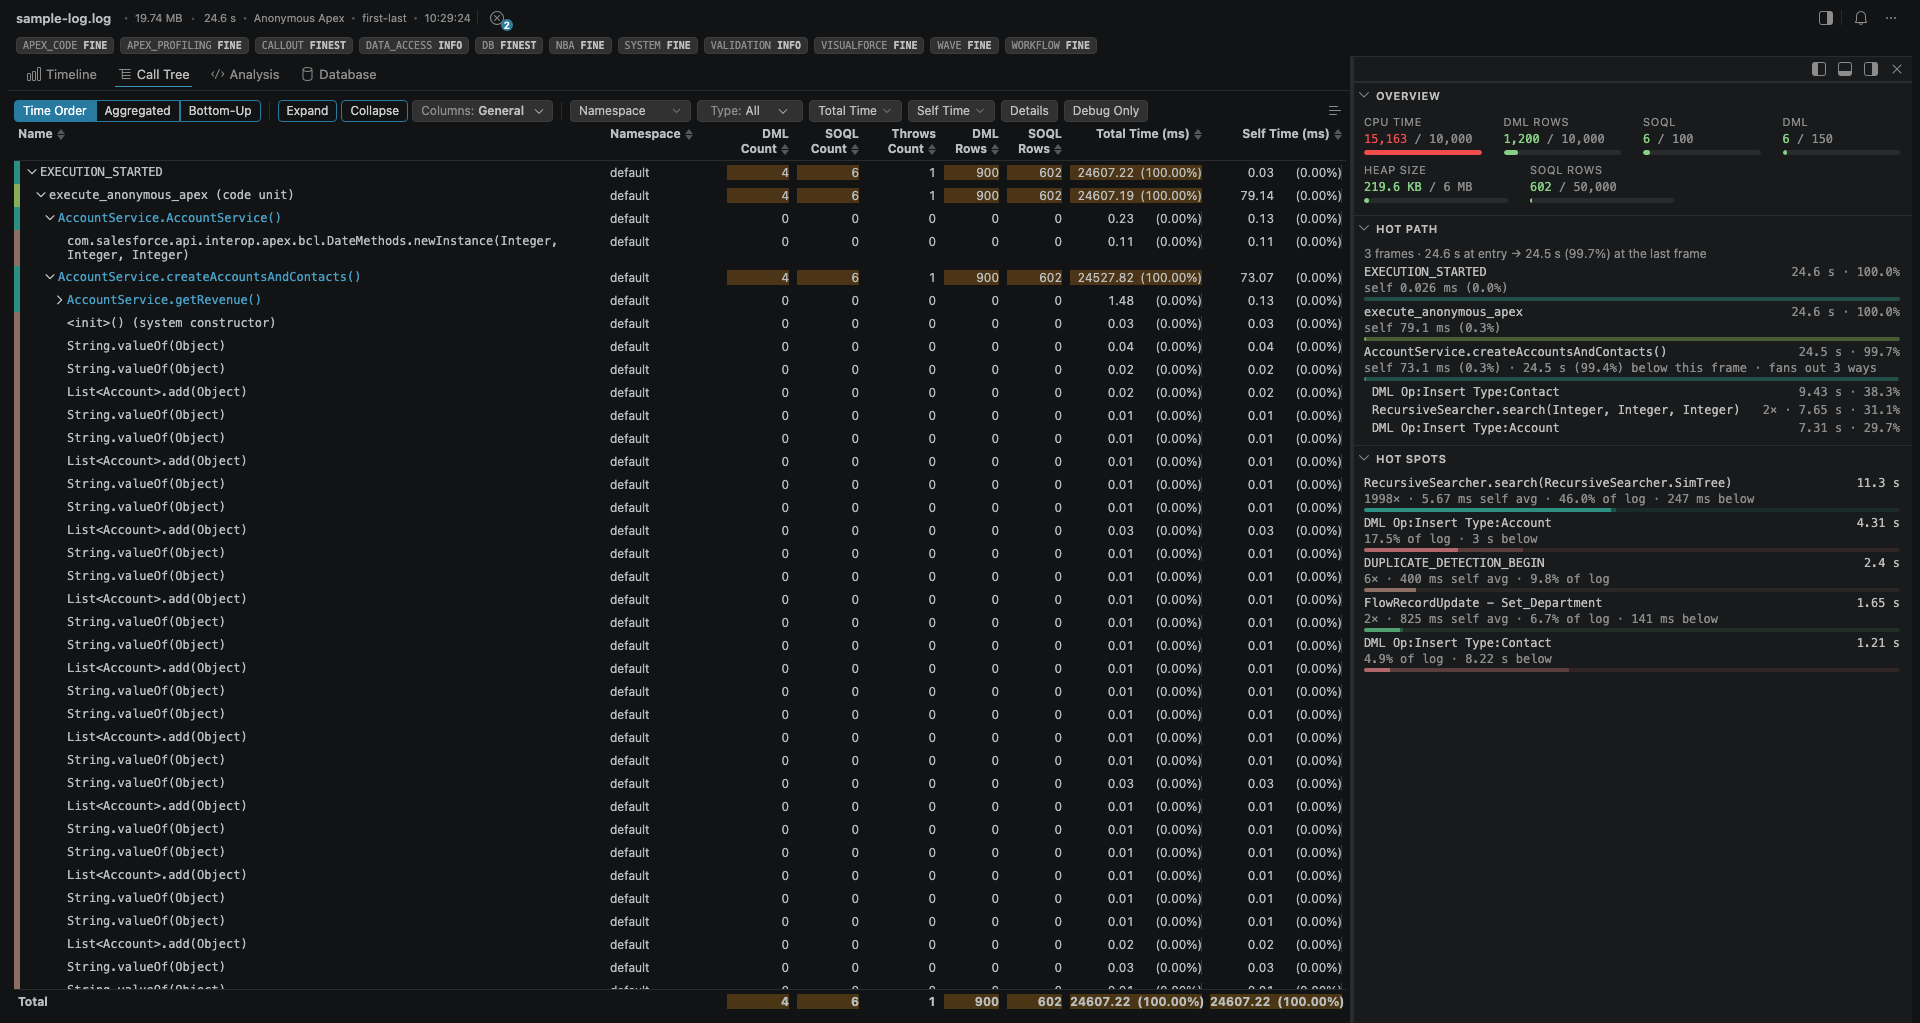
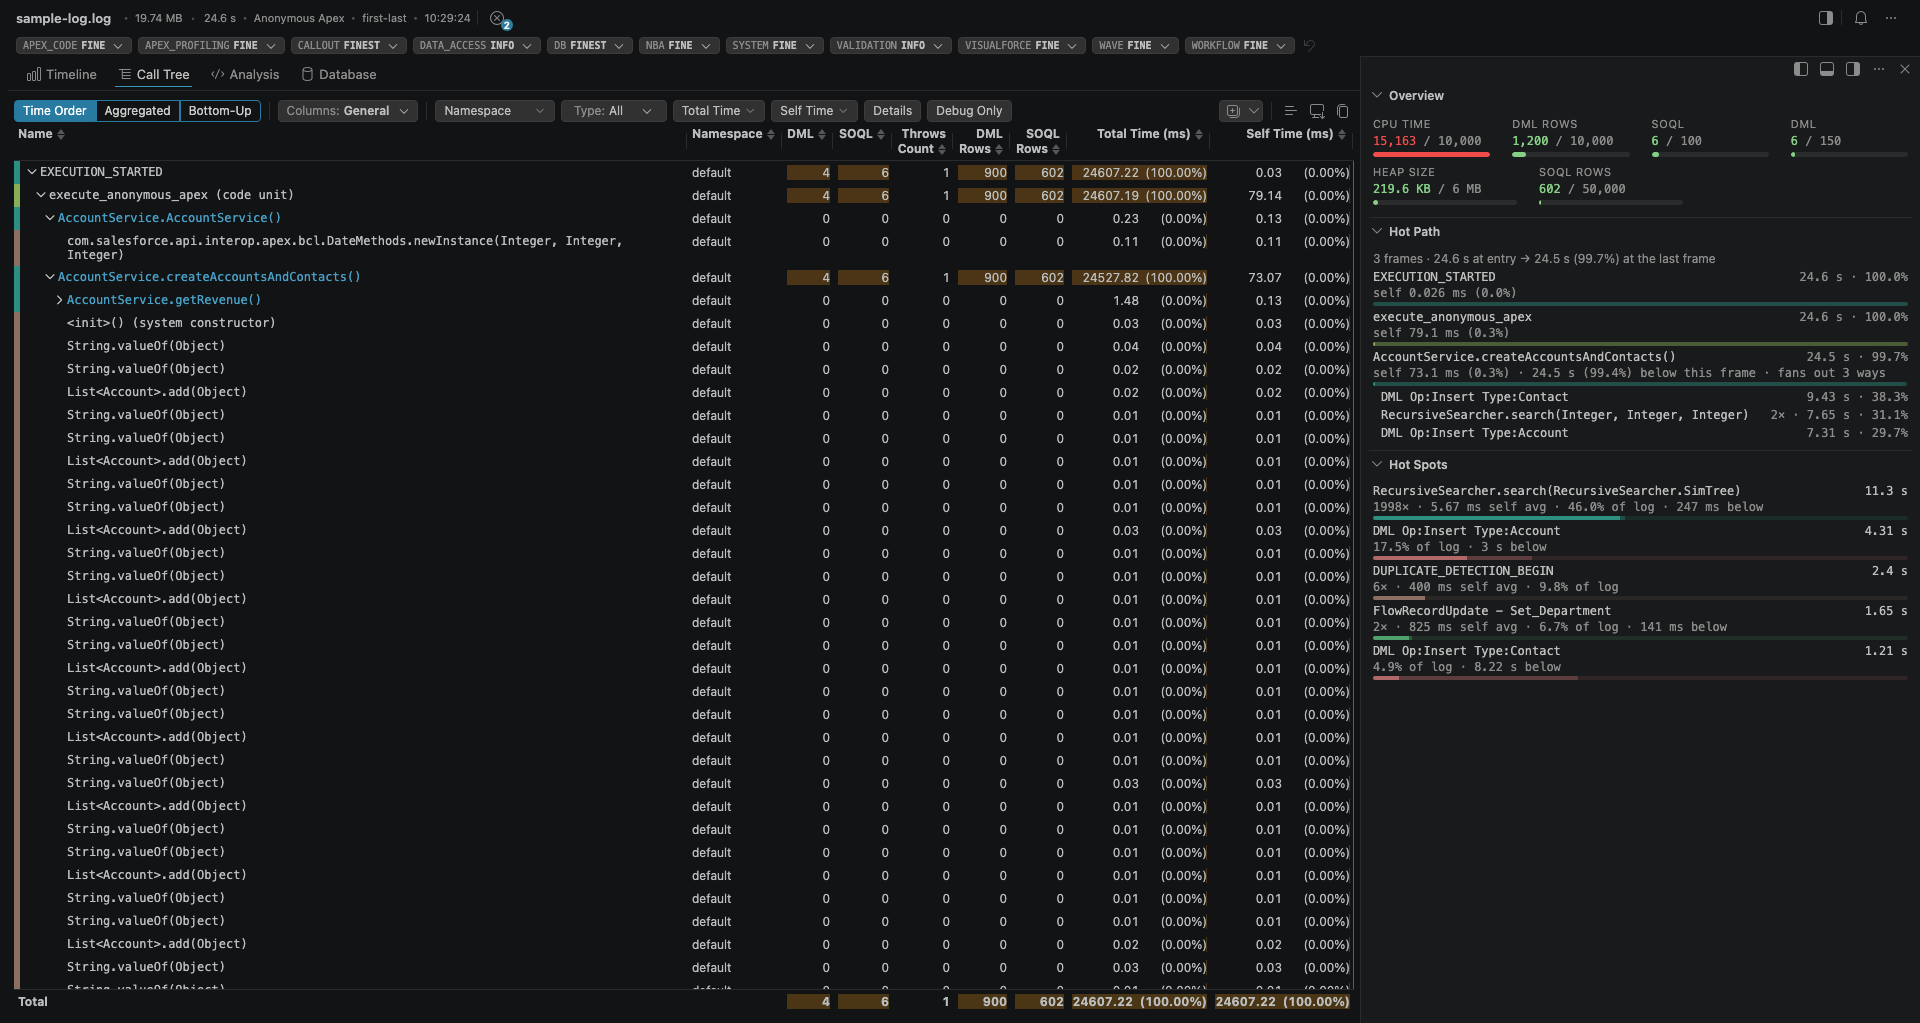
docs: re-shoot the screenshots into assets/1_24
Re-capture every log viewer shot in dark and light from this build.
Re-record the README hero gif from the docs demo, so it shows the new tables.
Copy the two VS Code editor shots forward. Their UI did not change.
Point the README, the docs and the screenshot scripts at 1_24, and remove 1_22.

diff --git a/lana-docs/src/constants.ts b/lana-docs/src/constants.ts
@@ -1,6 +1,6 @@
 /** Versioned screenshot folder. RELEASING.md bumps the version each stable release. */
 export const ASSETS_URL =
-  'https://raw.githubusercontent.com/certinia/debug-log-analyzer/main/lana/assets/1_22';
+  'https://raw.githubusercontent.com/certinia/debug-log-analyzer/main/lana/assets/1_24';
 
 /** The extension's VS Code Marketplace page. */
 export const MARKETPLACE_URL =

diff --git a/README.md b/README.md
@@ -3,7 +3,7 @@
 **Find what made a Salesforce Apex transaction slow.**  
 Apex Log Analyzer is a fast VS Code extension for Salesforce developers. Instantly visualize and debug Apex logs with interactive flame charts, dynamic call trees, and detailed SOQL/DML breakdowns. Identify performance bottlenecks, gain deep insight into complex transactions and optimize slow Apex methods faster than ever.
 
-![Apex Log Analyzer Preview](https://raw.githubusercontent.com/certinia/debug-log-analyzer/main/lana/assets/1_22/preview.gif)
+![Apex Log Analyzer Preview](https://raw.githubusercontent.com/certinia/debug-log-analyzer/main/lana/assets/1_24/preview.gif)
 
 [Installation](#%EF%B8%8F-installation 'Install Apex Log Analyzer in VS Code') |
 [Debug Log Levels](#%EF%B8%8F-recommended-debug-log-levels 'Go to Recommended Debug Log Levels') |
@@ -107,7 +107,7 @@ The Timeline view shows a live visualization of your Salesforce Apex log executi
 
 Also: Frame Selection & Navigation, Dynamic Frame Labels, Adaptive Frame Detail, Tooltips, Context Menu, Search & Highlight, 19 Curated Themes.
 
-![Flame Chart](https://raw.githubusercontent.com/certinia/debug-log-analyzer/main/lana/assets/1_22/timeline.png)
+![Flame Chart](https://raw.githubusercontent.com/certinia/debug-log-analyzer/main/lana/assets/1_24/timeline.png)
 
 > 🧠 Great for spotting long-running operations, inefficient queries, and bottlenecks.
 
@@ -139,7 +139,7 @@ Select anything - a timeline frame, a call tree or analysis row, a SOQL/DML/SOSL
 - **Dock it where you want** - Left, right or bottom; drag to resize, collapse the sections you don't need. Your layout is remembered.
 - **Right-click a row** for **Show in Call Tree**, **Copy Name**, **Copy Details** or **Copy Call Stack**; `Cmd/Ctrl+C` copies the table.
 
-![Inspector](https://raw.githubusercontent.com/certinia/debug-log-analyzer/main/lana/assets/1_22/inspector.png)
+![Inspector](https://raw.githubusercontent.com/certinia/debug-log-analyzer/main/lana/assets/1_24/inspector.png)
 
 ## 🧠 Apex Analysis
 
@@ -151,7 +151,7 @@ See which methods are the slowest, most frequent. or expensive.
 - **Filter** - show or hide zero-time events (Details)
 - **Copy or Export to CSV**
 
-![Analysis](https://raw.githubusercontent.com/certinia/debug-log-analyzer/main/lana/assets/1_22/analysis.png)
+![Analysis](https://raw.githubusercontent.com/certinia/debug-log-analyzer/main/lana/assets/1_24/analysis.png)
 
 ## 🗄 Database Analysis
 
@@ -168,7 +168,7 @@ Highlight slow Salesforce SOQL queries, non-selective filters, and DML issues, a
 - **[Inspector](#-inspector)** - select a statement to inspect it, including its SOQL optimization tips
 - **Sort**, **Copy or Export to CSV**
 
-![Database](https://raw.githubusercontent.com/certinia/debug-log-analyzer/main/lana/assets/1_22/database.png)
+![Database](https://raw.githubusercontent.com/certinia/debug-log-analyzer/main/lana/assets/1_24/database.png)
 
 ## 📊 Governor Limits + Heap
 

diff --git a/lana-docs/docs/docs/features/inspector.md b/lana-docs/docs/docs/features/inspector.md
@@ -13,7 +13,7 @@ keywords:
     apex log analyzer,
     salesforce developer tools,
   ]
-image: https://raw.githubusercontent.com/certinia/debug-log-analyzer/main/lana/assets/1_22/inspector.png
+image: https://raw.githubusercontent.com/certinia/debug-log-analyzer/main/lana/assets/1_24/inspector.png
 hide_title: true
 ---
 
@@ -23,8 +23,8 @@ Select anything - a Timeline frame, a Call Tree or Analysis row, a SOQL/DML/SOSL
 
 It docks to the **right**, **left** or **bottom**, resizes by dragging its edge, and is toggled from the button in the header. To go back to the default size, double-click its edge or pick **Reset Inspector Size** from a section header's menu. It opens on your first selection, then stays however you left it, including the next time you open a log. See [Settings](../settings.mdx#inspector).
 
-![The inspector on the Analysis tab reading the whole log: the governor metrics nearest a limit, the log's findings, and how few signatures hold its self time.](https://raw.githubusercontent.com/certinia/debug-log-analyzer/main/lana/assets/1_22/inspector.png#gh-dark-mode-only)
-![The inspector on the Analysis tab reading the whole log: the governor metrics nearest a limit, the log's findings, and how few signatures hold its self time.](https://raw.githubusercontent.com/certinia/debug-log-analyzer/main/lana/assets/1_22/inspector-light.png#gh-light-mode-only)
+![The inspector on the Analysis tab reading the whole log: the governor metrics nearest a limit, the log's findings, and how few signatures hold its self time.](https://raw.githubusercontent.com/certinia/debug-log-analyzer/main/lana/assets/1_24/inspector.png#gh-dark-mode-only)
+![The inspector on the Analysis tab reading the whole log: the governor metrics nearest a limit, the log's findings, and how few signatures hold its self time.](https://raw.githubusercontent.com/certinia/debug-log-analyzer/main/lana/assets/1_24/inspector-light.png#gh-light-mode-only)
 
 ### Sections
 

diff --git a/lana-docs/docs/docs/features/database.md b/lana-docs/docs/docs/features/database.md
@@ -16,7 +16,7 @@ keywords:
     salesforce developer tools,
     salesforce query optimization,
   ]
-image: https://raw.githubusercontent.com/certinia/debug-log-analyzer/main/lana/assets/1_22/database.png
+image: https://raw.githubusercontent.com/certinia/debug-log-analyzer/main/lana/assets/1_24/database.png
 hide_title: true
 ---
 
@@ -24,8 +24,8 @@ hide_title: true
 
 Database insights help Salesforce developers analyze DML, SOQL and SOSL operations, assess query selectivity, performance, and aggregations, and optimize Apex code using advanced sorting, grouping, filtering, call stack tracing, and CSV export tools.
 
-![Database view screenshot displaying DML, SOQL and SOSL operations with row counts, execution times, selectivity indicators, and aggregation details for Salesforce log analysis.](https://raw.githubusercontent.com/certinia/debug-log-analyzer/main/lana/assets/1_22/database.png#gh-dark-mode-only)
-![Database view screenshot displaying DML, SOQL and SOSL operations with row counts, execution times, selectivity indicators, and aggregation details for Salesforce log analysis.](https://raw.githubusercontent.com/certinia/debug-log-analyzer/main/lana/assets/1_22/database-light.png#gh-light-mode-only)
+![Database view screenshot displaying DML, SOQL and SOSL operations with row counts, execution times, selectivity indicators, and aggregation details for Salesforce log analysis.](https://raw.githubusercontent.com/certinia/debug-log-analyzer/main/lana/assets/1_24/database.png#gh-dark-mode-only)
+![Database view screenshot displaying DML, SOQL and SOSL operations with row counts, execution times, selectivity indicators, and aggregation details for Salesforce log analysis.](https://raw.githubusercontent.com/certinia/debug-log-analyzer/main/lana/assets/1_24/database-light.png#gh-light-mode-only)
 
 The tab has separate **DML**, **SOQL** and **SOSL** sections
 

diff --git a/lana-docs/docs/docs/features/analysis.md b/lana-docs/docs/docs/features/analysis.md
@@ -12,7 +12,7 @@ keywords:
     filter salesforce logs,
     salesforce developer tools,
   ]
-image: https://raw.githubusercontent.com/certinia/debug-log-analyzer/main/lana/assets/1_22/analysis.png
+image: https://raw.githubusercontent.com/certinia/debug-log-analyzer/main/lana/assets/1_24/analysis.png
 hide_title: true
 ---
 
@@ -20,8 +20,8 @@ hide_title: true
 
 Analyze Salesforce debug logs with detailed metrics on method calls, including Self Time, Total Time, Count, Name, and Type. Easily sort, filter, and group log events by namespace or type, and export or copy results for efficient troubleshooting and performance optimization. The Analysis table uses a bottom-up caller grouping model, where each method is shown as a root with its direct callers as children.
 
-![Analysis view screenshot showing method call metrics such as Self Time, Total Time, Count, Name, and Type](https://raw.githubusercontent.com/certinia/debug-log-analyzer/main/lana/assets/1_22/analysis.png#gh-dark-mode-only)
-![Analysis view screenshot showing method call metrics such as Self Time, Total Time, Count, Name, and Type](https://raw.githubusercontent.com/certinia/debug-log-analyzer/main/lana/assets/1_22/analysis-light.png#gh-light-mode-only)
+![Analysis view screenshot showing method call metrics such as Self Time, Total Time, Count, Name, and Type](https://raw.githubusercontent.com/certinia/debug-log-analyzer/main/lana/assets/1_24/analysis.png#gh-dark-mode-only)
+![Analysis view screenshot showing method call metrics such as Self Time, Total Time, Count, Name, and Type](https://raw.githubusercontent.com/certinia/debug-log-analyzer/main/lana/assets/1_24/analysis-light.png#gh-light-mode-only)
 
 ### Sort
 

diff --git a/lana-docs/docs/docs/features/governor-limits-heap.md b/lana-docs/docs/docs/features/governor-limits-heap.md
@@ -13,7 +13,7 @@ keywords:
     salesforce debug log analysis,
     apex log analyzer,
   ]
-image: https://raw.githubusercontent.com/certinia/debug-log-analyzer/main/lana/assets/1_22/timeline.png
+image: https://raw.githubusercontent.com/certinia/debug-log-analyzer/main/lana/assets/1_24/timeline.png
 hide_title: true
 ---
 

diff --git a/lana-docs/docs/docs/guides/slow-transaction.md b/lana-docs/docs/docs/guides/slow-transaction.md
@@ -11,7 +11,7 @@ keywords:
     apex debug log analysis,
     apex log analyzer guide,
   ]
-image: https://raw.githubusercontent.com/certinia/debug-log-analyzer/main/lana/assets/1_22/timeline.png
+image: https://raw.githubusercontent.com/certinia/debug-log-analyzer/main/lana/assets/1_24/timeline.png
 hide_title: true
 ---
 
